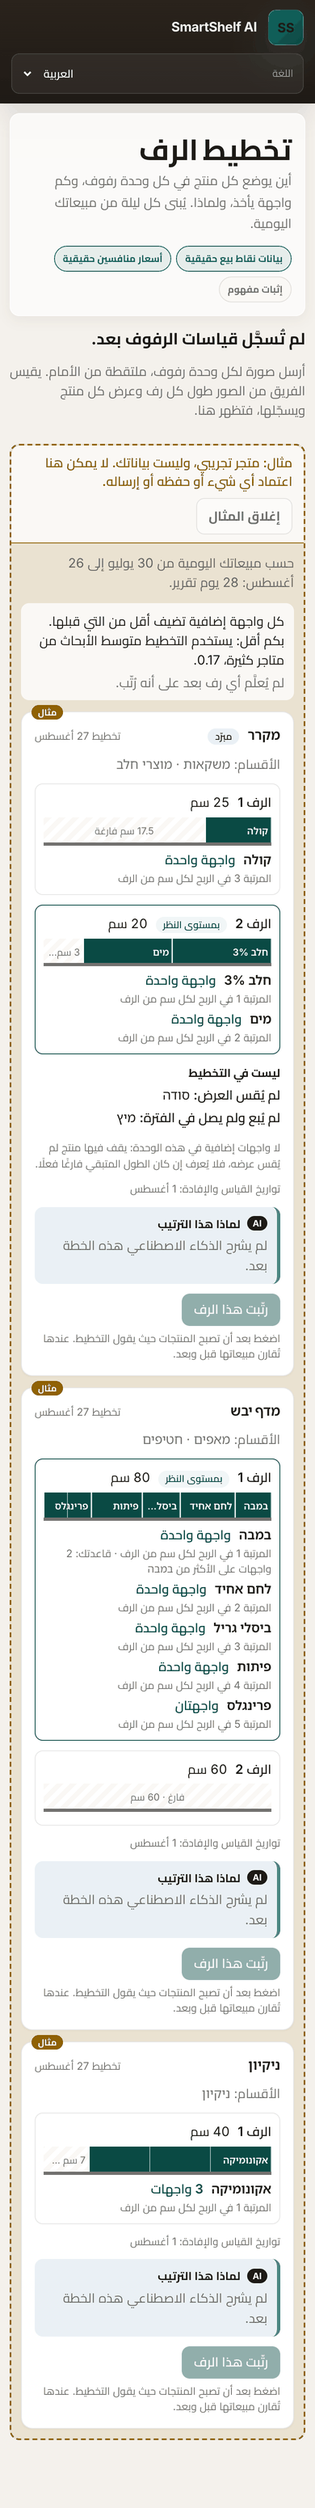
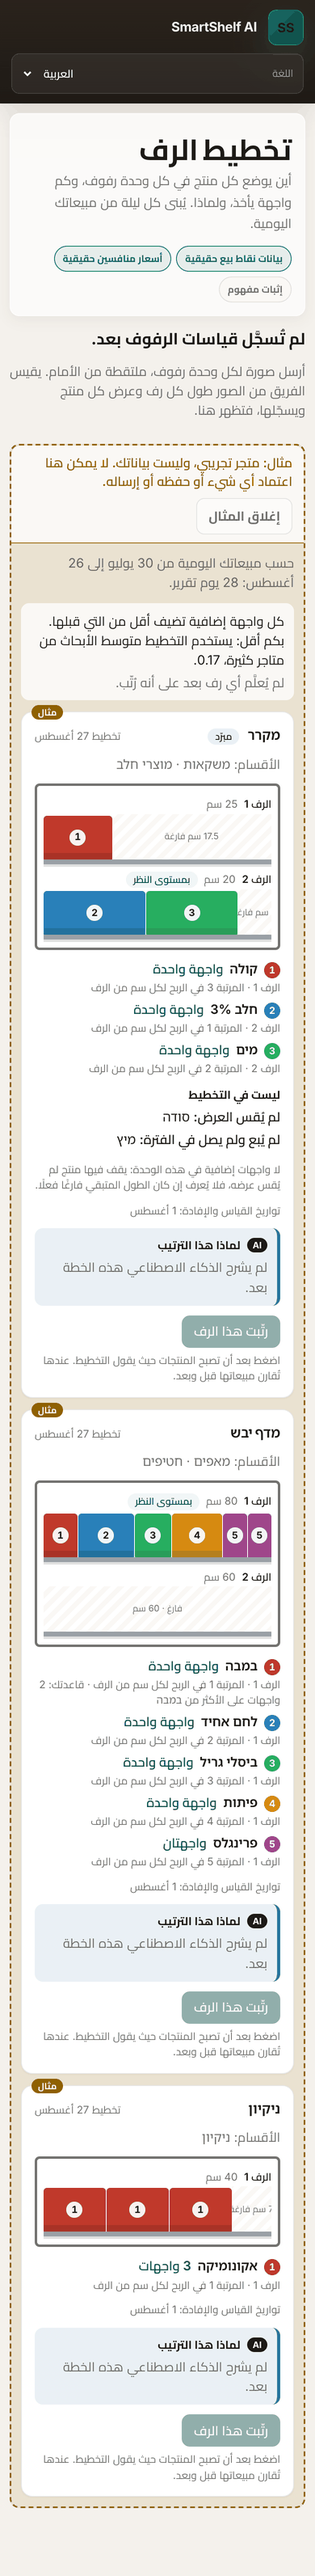
Phase 8 Task 8.8: the mockups redrawn as a planogram, with the pictures question
Records his request of 2026-10-04 and redraws every Shelf plan screen in the front view. Adds
the decision it raises: product pictures cropped from the store's own shelf photos by the team,
kept as store data beside the layout file, which F12-S1 v0.9 would specify.

diff --git a/docs/reviews/F12-screens-mockups.md b/docs/reviews/F12-screens-mockups.md
@@ -51,6 +51,13 @@ claude.ai page used for F8 could not be published from this session.
 1. **The screens below.** Store layout (filled, waiting, every unit rejected). Shelf plan
    (filled, after "I've arranged this shelf", with the measurement, while a measurement runs, your
    store's own figure, waiting with the example, waiting for daily reports, and the team's view).
+
+   On 2026-10-04 he asked, before accepting, that the plan look like a printed planogram (his
+   picture: the whole unit from the front, shelves stacked, each product shown on the shelf, and
+   a key), "but customized to the store that take picture of the shelf". The screens below are
+   drawn that way: each unit from the front, its shelves stacked from the top, every facing a tile
+   as wide as the product, and a numbered key under it. The drawing is the shelf itself, so it
+   runs left to right in every language, with products in the plan's order from the left.
 2. **A fault the mockups found: the plan leaves shelves empty.** The approved packing rule
    (F12-S1 FR-183, FR-185) puts every product's first facing on the eye-level shelf while it has
    room. Extra facings then go only on the shelf that already holds that product. So a unit whose
@@ -71,15 +78,24 @@ claude.ai page used for F8 could not be published from this session.
      shelves.
 
    Either one changes the spec (FR-183 and FR-185), the engine and its tests. That comes back as
-   F12-S1 v0.9 for approval before the pages are built.
-3. **All the new wording** (the table at the end). The Hebrew and Arabic are the engineer's
+   F12-S1 v0.9 for approval before the pages are built. The front view makes the fault plain: in
+   the measurement shop every unit is a full shelf over an empty one.
+3. **Product pictures on the tiles, from the store's own photos.** No product picture exists
+   anywhere in the system today, and none may be invented (D-23). They can come from the photos the
+   store already sends: when the team reads each product's width from a shelf photo (OQ-1201), it
+   also crops that product's front from the same photo, and records who cropped it and when. Each
+   tile then shows the store's own product. A product without a picture yet keeps its coloured,
+   numbered tile, as on every screen below, because no store has sent photos. This needs a new
+   requirement in F12-S1 v0.9 and a decision on where the pictures are kept: they are store data,
+   kept beside the layout file and never overwritten by a product update (ADR-036, ADR-037).
+4. **All the new wording** (the table at the end). The Hebrew and Arabic are the engineer's
    translations and need a daily reader. Three choices in it:
    - **"Facing":** "חזית / חזיתות" in Hebrew and "واجهة / واجهات" in Arabic. The old page
      descriptions said "פנים" and "وجهة".
    - **The page names stay**, but their hints and descriptions change. "Draw your shelves once" and
      "top view" were wrong: nobody draws anything. The team measures the shelves from his photos.
    - **The AI label** is "AI" in all three languages, beside "Why this arrangement".
-4. **The team's note on a rejected entry.** When the layout file has an entry the engine cannot
+5. **The team's note on a rejected entry.** When the layout file has an entry the engine cannot
    use, Store layout names it in his language, then shows the loader's reason in English, marked
    "Note for the team". The alternative is to show him only what was not used, and keep the reason
    for the team.
@@ -124,7 +140,7 @@ Each rejected unit named, with the team's note.
 
 #### Filled
 
-The plan's window, and the elasticity it uses and why. Per unit: each shelf drawn to scale (products as wide as their facings, then the free length), each product's facings and earnings rank, his rule where one applies, the products not on the plan and why, why no extra facings were given, the dates of the facts used, the AI's explanation (illustrative on the fridge, held back on the dry unit, out of date on the cleaning unit), and "I've arranged this shelf".
+The plan's window, and the elasticity it uses and why. Per unit: the unit from the front, its shelves stacked, every facing a tile as wide as the product with its number, then the free length; the key, with each product's shelf, facings and earnings rank and his rule where one applies; the products not on the plan and why, why no extra facings were given, the dates of the facts used, the AI's explanation (illustrative on the fridge, held back on the dry unit, out of date on the cleaning unit), and "I've arranged this shelf".
 
 | العربية | עברית |
 |---|---|
